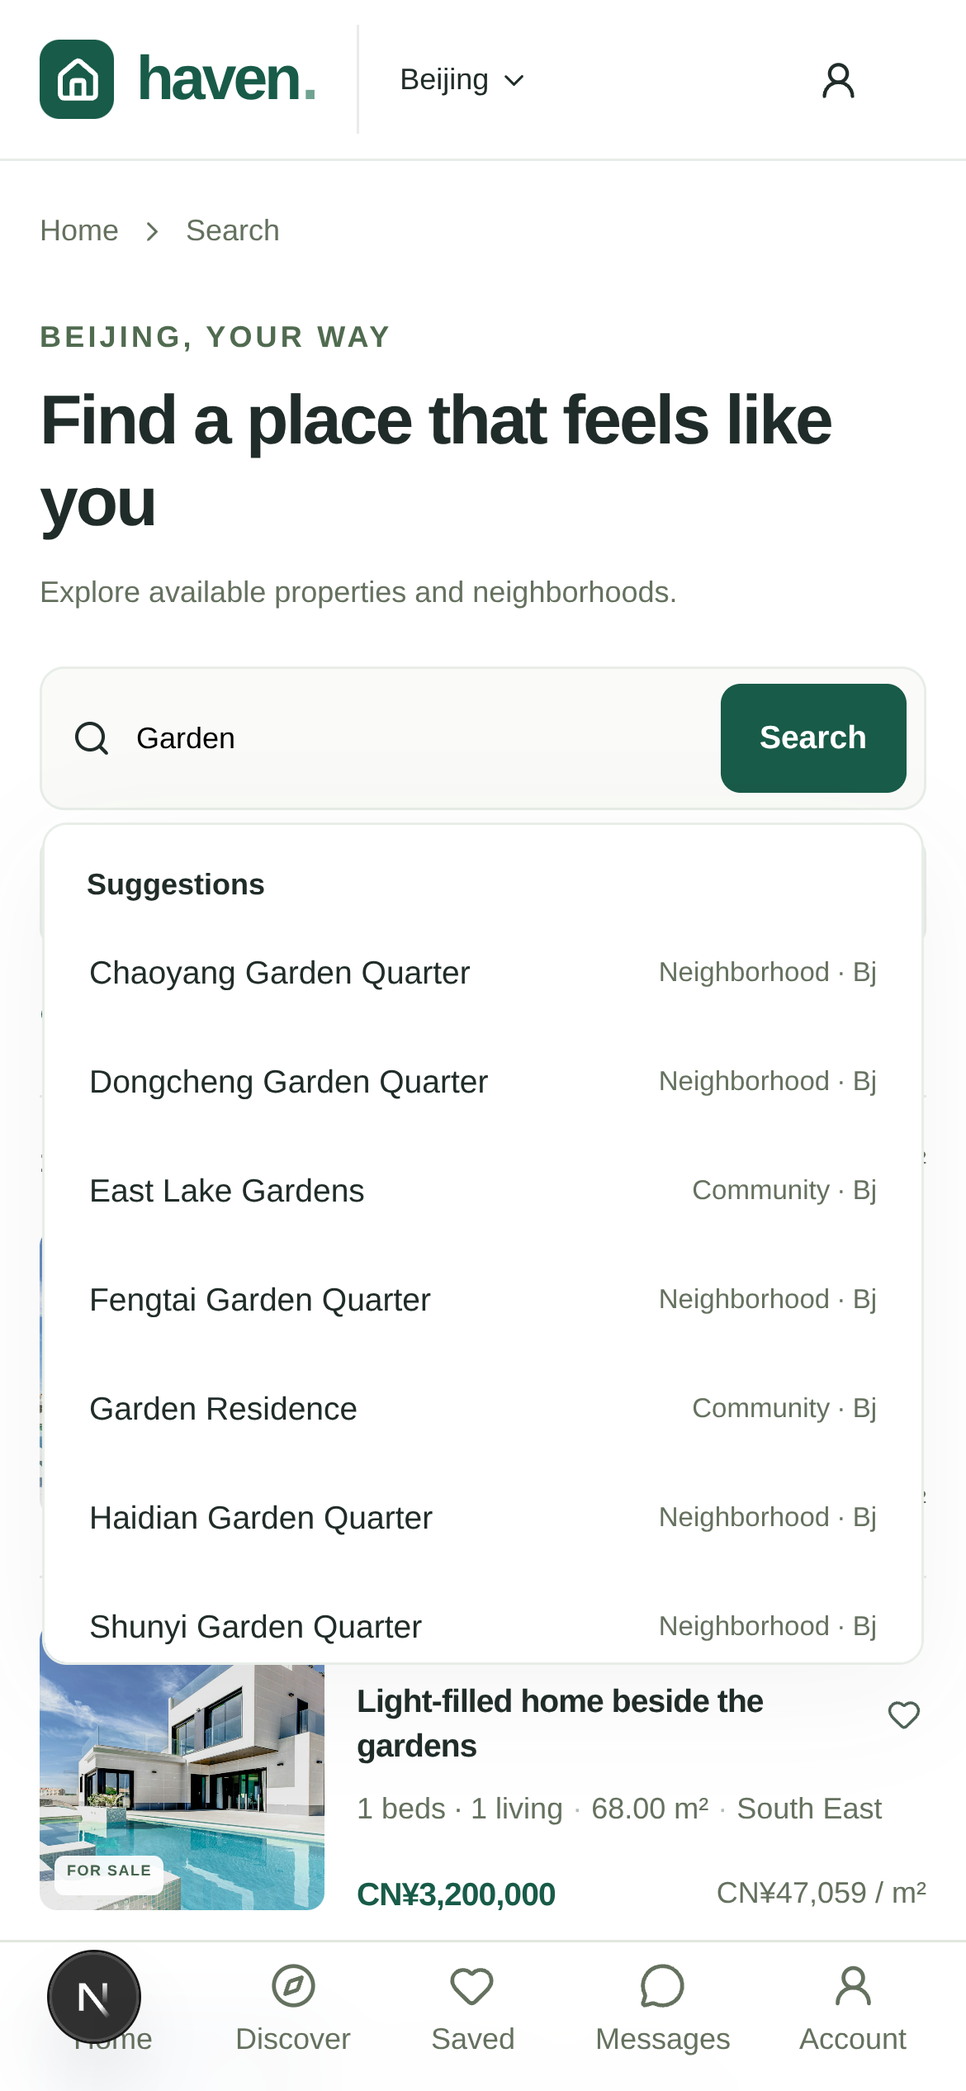
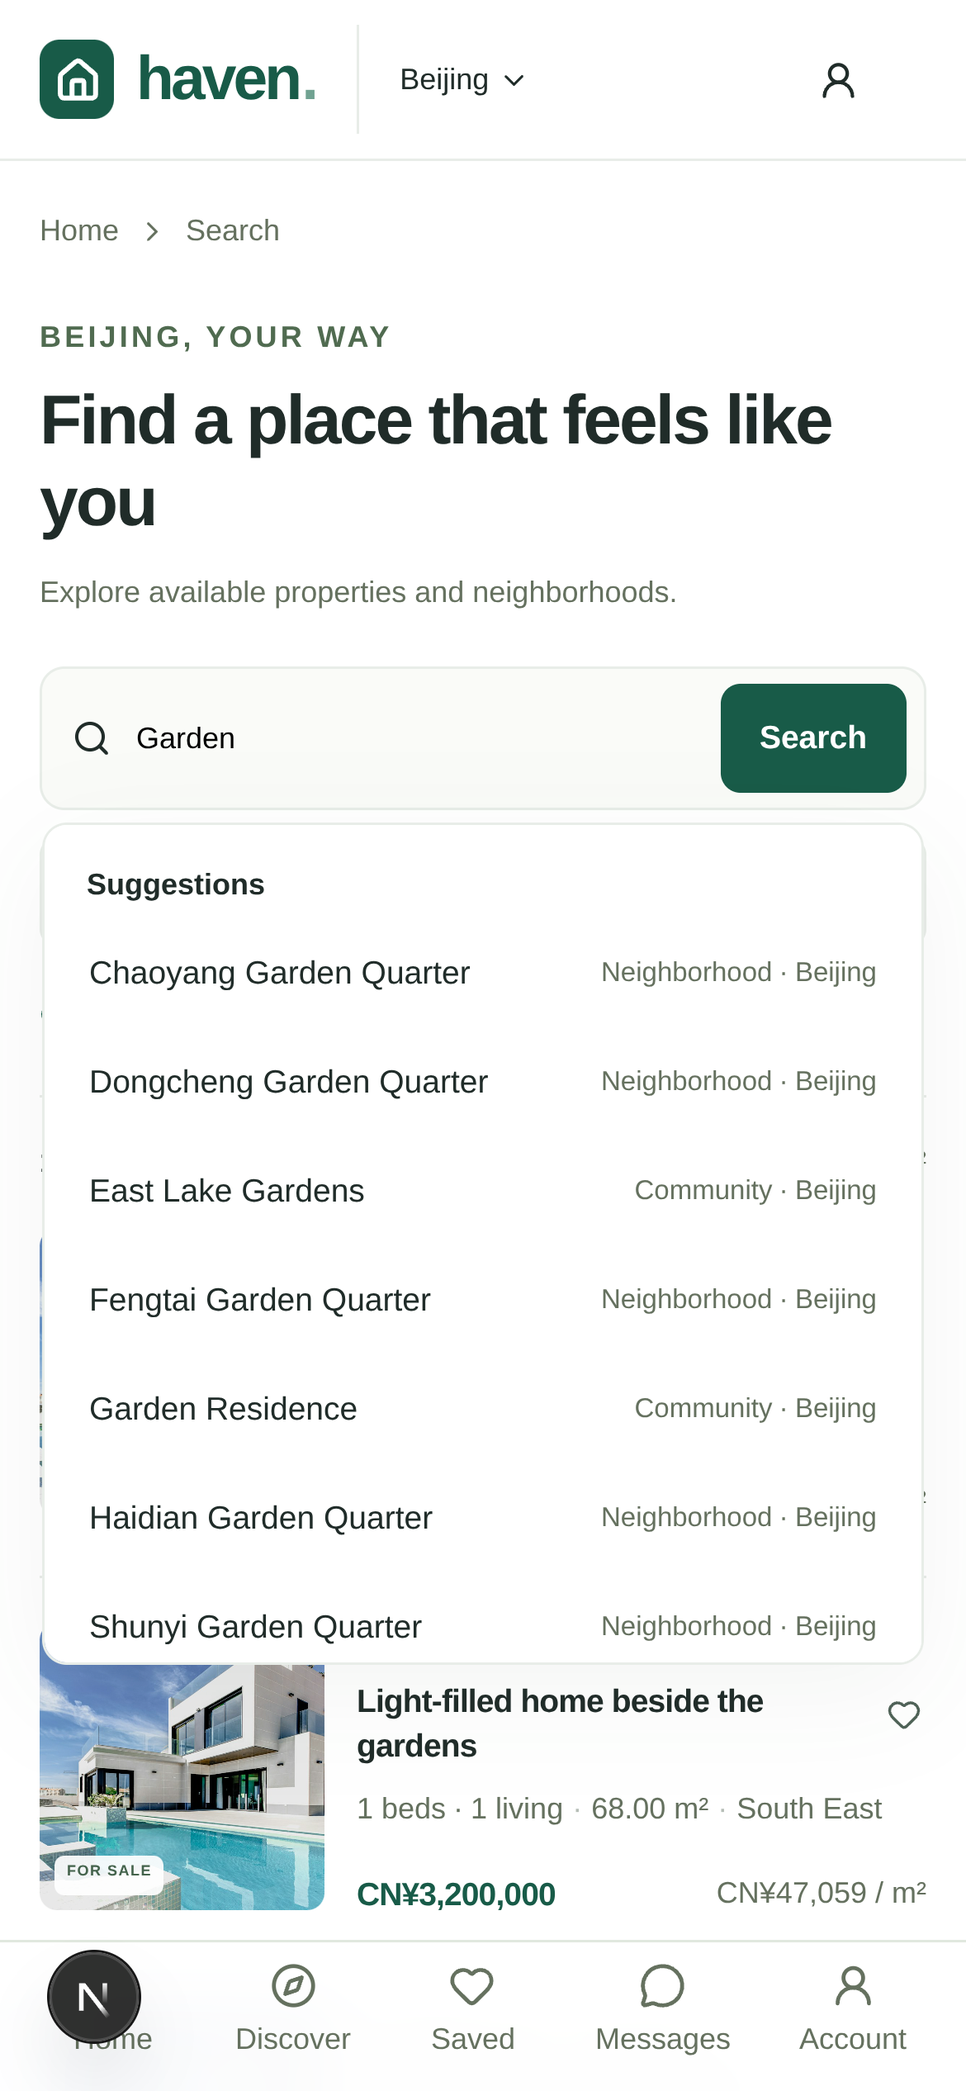
Show city names in autocomplete options and verify scoped labels

diff --git a/apps/web/src/consumer.tsx b/apps/web/src/consumer.tsx
@@ -34,8 +34,8 @@ function ConsumerScreen({section,detail,initial,initialError}:Props){const city=
  const home=section==='home';
  return <><a className="skip-link" href="#main">Skip to content</a><header className="site-header"><div className="header-inner"><Brand href={'/'+city.slug}/><button className="city-control" onClick={()=>setModal('city')}><MapPin size={16}/>{city.name}<ChevronDown size={13}/></button><nav className="desktop-nav" aria-label="Main navigation"><a className={['home','buy'].includes(section)?'active':''} href={'/'+city.slug+'/buy'}>Buy</a><a className={section==='rent'?'active':''} href={'/'+city.slug+'/rent'}>Rent</a><a className={section==='new-homes'?'active':''} href={'/'+city.slug+'/new-homes'}>New homes</a><a href={'/'+city.slug+'/agents'}>Find an agent</a></nav><div className="header-actions"><a className="list-link" href={'/'+city.slug+'/list-property'}>List your property <ArrowUpRight size={15}/></a><button className="account-button" aria-label={signedIn?'My account':'Sign in'} onClick={()=>signedIn?window.location.assign('/account'):signIn()}><UserRound size={17}/><span>{signedIn?'My account':'Sign in'}</span></button><button className="mobile-menu icon-button" aria-label="Open menu" onClick={()=>setModal('menu')}><Menu size={21}/></button></div></div></header>
  <main id="main" className={home?'':'shell page-shell'}>
- {home?<><section className="hero shell"><div className="hero-image"><img src="/homes/home-1.jpg" alt="A spacious home opening onto a garden" fetchPriority="high"/><div className="hero-shade"/></div><div className="hero-content"><span className="hero-eyebrow"><span/> YOUR NEXT CHAPTER STARTS HERE</span><h1>Find a place<br/>to call <em>yours.</em></h1><p>A home is more than an address.<br className="desktop-only"/> Let’s find where you belong.</p><SearchAutocomplete key={city.slug+':'+(me.data?.data.id||'guest')} city={city.slug} accountId={me.data?.data.id} initialText={searchParams.get('text')||''} hero/><div className="hero-foot"><ShieldCheck size={15}/><span>Clear details. Local guidance. A place for you.</span></div></div><div className="hero-caption"><MapPin size={14}/>Discover your {city.name}</div></section><section className="categories shell" aria-label="Explore property categories">{categories.map(({label,path,icon:Icon,color})=><a href={'/'+city.slug+'/'+path} key={path}><span className={'category-icon '+color}><Icon size={25} strokeWidth={1.7}/></span><span>{label}</span></a>)}</section><section className="home-section shell"><div className="section-heading"><div><span className="eyebrow">A PLACE TO START</span><h2>Homes worth a closer look<span className="accent-dot">.</span></h2><p>Find a little more space for the life you want.</p></div><a className="text-link" href={'/'+city.slug+'/buy'}>Explore all homes <ArrowUpRight size={17}/></a></div><div className="feed-tabs"><a className="selected" href={'/'+city.slug}>Recommended</a><a href={'/'+city.slug+'/buy?sort=newest'}>Just listed</a><a href={'/'+city.slug+'/buy?sort=price_asc'}>Explore by price</a><span className="feed-note">Available homes in {city.name}</span></div>{result.isPending?<Spinner/>:result.isError||(!result.data&&initialError)?<ErrorBox message={result.error?.message||initialError!} retry={()=>result.refetch()}/>:<div className="listing-grid">{records.map(card)}</div>}</section><section className="owner-banner shell"><div className="owner-banner-icon"><House size={44} strokeWidth={1.2}/></div><div><span className="eyebrow">YOUR NEXT MOVE</span><h2>Great homes deserve to be found.</h2><p>Selling or letting? Start with a local property team.</p></div><a href={'/'+city.slug+'/list-property'} className="button">List your property <ArrowUpRight size={17}/></a></section><HomeDevelopments/><section className="guide-banner shell"><div><span className="eyebrow">A LITTLE LOCAL KNOWLEDGE</span><h2>Find the neighborhood<br/>that feels like home.</h2><p>Get to know the communities behind the addresses.</p><a className="text-link" href={'/'+city.slug+'/communities'}>Explore {city.name} communities <ArrowUpRight size={17}/></a></div><Photo src="/homes/home-4.jpg" alt="A home with green surroundings"/></section></>:
- section==='tools'?<Mortgage/>:section==='list-property'?<OwnerForm signedIn={signedIn} signIn={signIn} onSuccess={()=>setNotice('Your property request has been saved')}/>:section==='support'?<Support signedIn={signedIn} signIn={signIn}/>:section==='account'?<Account detail={detail} me={me} favorites={favorites} card={card} signIn={signIn}/>:section==='tenant'?<Tenant section={detail||'leases'} me={me} signIn={signIn}/>:detail&&records&&!Array.isArray(records)?<Detail section={section} record={records} authLoading={me.isPending||(!!me.data&&favorites.isPending)} saved={favorites.data?.data.some(x=>x.id===records.id)??false} signedIn={signedIn} signIn={signIn} save={save} onSuccess={setNotice}/>:<><div className="breadcrumb"><a href={'/'+city.slug}>Home</a><ChevronRight size={13}/><span>{categories.find(c=>c.path===section)?.label||'Search'}</span></div><div className="page-heading"><div><span className="eyebrow">{city.name.toUpperCase()}, YOUR WAY</span><h1>{titles[section]||'Explore '+city.name}</h1><p>{subtitles[section]?.replaceAll('Beijing',city.name)||'Explore available properties and neighborhoods.'}</p></div><span className="heading-decoration"><House size={48} strokeWidth={1}/></span></div><SearchAutocomplete key={city.slug+':'+(me.data?.data.id||'guest')} city={city.slug} accountId={me.data?.data.id} initialText={searchParams.get('text')||''} communities={section==='communities'}/>{['buy','rent','commercial','search'].includes(section)&&<FilterBar section={section} onSaveSearch={()=>signedIn?setModal('saveSearch'):signIn()}/>}{section==='communities'&&<CommunityFilters/>}<div className="results-heading"><span><strong>{result.data?.meta?.total??records.length??0}</strong> {section==='agents'?'local agents':section==='communities'?'communities':'results'} in {city.name}</span><span className="muted">{['buy','rent','commercial','search'].includes(section)?'Prices in CNY · Area in m²':'Local discovery'}</span></div>{result.isPending?<Spinner/>:result.isError||(!result.data&&initialError)?<ErrorBox message={result.error?.message||initialError!} retry={()=>result.refetch()}/>:!records.length?<Empty title="No matches just yet" description="Try a different neighborhood or adjust your filters."><a className="button secondary" href={'/'+city.slug+'/'+section}>Clear filters</a></Empty>:['buy','rent','commercial','search'].includes(section)?<><div className="listing-grid">{records.map(card)}</div>{result.data?.meta&&Number(result.data.meta.total)>20&&<Pagination total={Number(result.data.meta.total)}/>}</>:<><div className="listing-grid">{records.map((r:any)=><DirectoryCard key={r.id} record={r} section={section}/>)}</div>{section==='communities'&&Number(result.data?.meta?.total)>Number(result.data?.meta?.limit)&&<Pagination total={Number(result.data?.meta?.total)} limit={Number(result.data?.meta?.limit)}/>}</>}</>}
+ {home?<><section className="hero shell"><div className="hero-image"><img src="/homes/home-1.jpg" alt="A spacious home opening onto a garden" fetchPriority="high"/><div className="hero-shade"/></div><div className="hero-content"><span className="hero-eyebrow"><span/> YOUR NEXT CHAPTER STARTS HERE</span><h1>Find a place<br/>to call <em>yours.</em></h1><p>A home is more than an address.<br className="desktop-only"/> Let’s find where you belong.</p><SearchAutocomplete key={city.slug+':'+(me.data?.data.id||'guest')} city={city.slug} cityName={city.name} accountId={me.data?.data.id} initialText={searchParams.get('text')||''} hero/><div className="hero-foot"><ShieldCheck size={15}/><span>Clear details. Local guidance. A place for you.</span></div></div><div className="hero-caption"><MapPin size={14}/>Discover your {city.name}</div></section><section className="categories shell" aria-label="Explore property categories">{categories.map(({label,path,icon:Icon,color})=><a href={'/'+city.slug+'/'+path} key={path}><span className={'category-icon '+color}><Icon size={25} strokeWidth={1.7}/></span><span>{label}</span></a>)}</section><section className="home-section shell"><div className="section-heading"><div><span className="eyebrow">A PLACE TO START</span><h2>Homes worth a closer look<span className="accent-dot">.</span></h2><p>Find a little more space for the life you want.</p></div><a className="text-link" href={'/'+city.slug+'/buy'}>Explore all homes <ArrowUpRight size={17}/></a></div><div className="feed-tabs"><a className="selected" href={'/'+city.slug}>Recommended</a><a href={'/'+city.slug+'/buy?sort=newest'}>Just listed</a><a href={'/'+city.slug+'/buy?sort=price_asc'}>Explore by price</a><span className="feed-note">Available homes in {city.name}</span></div>{result.isPending?<Spinner/>:result.isError||(!result.data&&initialError)?<ErrorBox message={result.error?.message||initialError!} retry={()=>result.refetch()}/>:<div className="listing-grid">{records.map(card)}</div>}</section><section className="owner-banner shell"><div className="owner-banner-icon"><House size={44} strokeWidth={1.2}/></div><div><span className="eyebrow">YOUR NEXT MOVE</span><h2>Great homes deserve to be found.</h2><p>Selling or letting? Start with a local property team.</p></div><a href={'/'+city.slug+'/list-property'} className="button">List your property <ArrowUpRight size={17}/></a></section><HomeDevelopments/><section className="guide-banner shell"><div><span className="eyebrow">A LITTLE LOCAL KNOWLEDGE</span><h2>Find the neighborhood<br/>that feels like home.</h2><p>Get to know the communities behind the addresses.</p><a className="text-link" href={'/'+city.slug+'/communities'}>Explore {city.name} communities <ArrowUpRight size={17}/></a></div><Photo src="/homes/home-4.jpg" alt="A home with green surroundings"/></section></>:
+ section==='tools'?<Mortgage/>:section==='list-property'?<OwnerForm signedIn={signedIn} signIn={signIn} onSuccess={()=>setNotice('Your property request has been saved')}/>:section==='support'?<Support signedIn={signedIn} signIn={signIn}/>:section==='account'?<Account detail={detail} me={me} favorites={favorites} card={card} signIn={signIn}/>:section==='tenant'?<Tenant section={detail||'leases'} me={me} signIn={signIn}/>:detail&&records&&!Array.isArray(records)?<Detail section={section} record={records} authLoading={me.isPending||(!!me.data&&favorites.isPending)} saved={favorites.data?.data.some(x=>x.id===records.id)??false} signedIn={signedIn} signIn={signIn} save={save} onSuccess={setNotice}/>:<><div className="breadcrumb"><a href={'/'+city.slug}>Home</a><ChevronRight size={13}/><span>{categories.find(c=>c.path===section)?.label||'Search'}</span></div><div className="page-heading"><div><span className="eyebrow">{city.name.toUpperCase()}, YOUR WAY</span><h1>{titles[section]||'Explore '+city.name}</h1><p>{subtitles[section]?.replaceAll('Beijing',city.name)||'Explore available properties and neighborhoods.'}</p></div><span className="heading-decoration"><House size={48} strokeWidth={1}/></span></div><SearchAutocomplete key={city.slug+':'+(me.data?.data.id||'guest')} city={city.slug} cityName={city.name} accountId={me.data?.data.id} initialText={searchParams.get('text')||''} communities={section==='communities'}/>{['buy','rent','commercial','search'].includes(section)&&<FilterBar section={section} onSaveSearch={()=>signedIn?setModal('saveSearch'):signIn()}/>}{section==='communities'&&<CommunityFilters/>}<div className="results-heading"><span><strong>{result.data?.meta?.total??records.length??0}</strong> {section==='agents'?'local agents':section==='communities'?'communities':'results'} in {city.name}</span><span className="muted">{['buy','rent','commercial','search'].includes(section)?'Prices in CNY · Area in m²':'Local discovery'}</span></div>{result.isPending?<Spinner/>:result.isError||(!result.data&&initialError)?<ErrorBox message={result.error?.message||initialError!} retry={()=>result.refetch()}/>:!records.length?<Empty title="No matches just yet" description="Try a different neighborhood or adjust your filters."><a className="button secondary" href={'/'+city.slug+'/'+section}>Clear filters</a></Empty>:['buy','rent','commercial','search'].includes(section)?<><div className="listing-grid">{records.map(card)}</div>{result.data?.meta&&Number(result.data.meta.total)>20&&<Pagination total={Number(result.data.meta.total)}/>}</>:<><div className="listing-grid">{records.map((r:any)=><DirectoryCard key={r.id} record={r} section={section}/>)}</div>{section==='communities'&&Number(result.data?.meta?.total)>Number(result.data?.meta?.limit)&&<Pagination total={Number(result.data?.meta?.total)} limit={Number(result.data?.meta?.limit)}/>}</>}</>}
  </main><footer className="site-footer shell"><div><Brand href={'/'+city.slug}/><p>A place for your next chapter.</p></div><nav aria-label="Footer"><a href={'/'+city.slug+'/support'}>Help & support</a><a href={'/'+city.slug+'/list-property'}>For property owners</a><a href={process.env.NEXT_PUBLIC_OPS_URL||'http://localhost:8089/ops'}>Professional workspace <ArrowUpRight size={13}/></a></nav><div className="footer-bottom"><span>© 2026 Haven. English real estate marketplace.</span><span>Synthetic demo inventory · Illustrative photography</span></div></footer><nav className="bottom-nav" aria-label="Mobile navigation"><a className={home?'active':''} href={'/'+city.slug}><House size={21}/>Home</a><a href={'/'+city.slug+'/buy'}><Compass size={21}/>Discover</a><a href="/account/favorites"><Heart size={21}/>Saved</a><a href="/account/messages"><MessageCircle size={21}/>Messages</a><a href="/account"><UserRound size={21}/>Account</a></nav>
  {notice&&<div className="toast" role="status"><CheckCircle2 size={18}/>{notice}<button onClick={()=>setNotice('')} aria-label="Dismiss notification">×</button></div>}
  {modal==='city'&&<Dialog title="Choose your city" onClose={close}><CitySelector section={section} current={city}/></Dialog>}

diff --git a/apps/web/src/search-autocomplete.tsx b/apps/web/src/search-autocomplete.tsx
@@ -3,8 +3,8 @@ import {useEffect,useId,useRef,useState} from 'react';
 import {Search,ArrowRight} from 'lucide-react';
 import {sdk} from '@haven/contracts';
 type Suggestion={id:string;name:string;slug:string;kind:'community'|'district'|'neighborhood';city:string};
-type Props={city:string;accountId?:string;hero?:boolean;initialText?:string;communities?:boolean};
-export function SearchAutocomplete({city,accountId,hero=false,initialText='',communities=false}:Props){
+type Props={city:string;cityName:string;accountId?:string;hero?:boolean;initialText?:string;communities?:boolean};
+export function SearchAutocomplete({city,cityName,accountId,hero=false,initialText='',communities=false}:Props){
  const [text,setText]=useState(initialText),[focused,setFocused]=useState(false),[suggestions,setSuggestions]=useState<Suggestion[]>([]),[history,setHistory]=useState<string[]>([]),[selected,setSelected]=useState(-1),[notice,setNotice]=useState(''),[loading,setLoading]=useState(false);
  const listId=useId(),sequence=useRef(0),key='haven.recent-searches.'+city;
  useEffect(()=>{
@@ -33,6 +33,6 @@ export function SearchAutocomplete({city,accountId,hero=false,initialText='',com
  return <form className={(hero?'hero-search':'list-search')+' search-autocomplete'} onSubmit={e=>{e.preventDefault();const choice=choices[selected];void submit(choice?.label||text,choice?.suggestion);}} onBlur={e=>{if(!e.currentTarget.contains(e.relatedTarget)){setFocused(false);setSelected(-1);}}}>
   <Search size={hero?21:20}/><input role="combobox" aria-label={hero?'Search homes, neighborhoods or communities':'Search properties'} aria-expanded={focused} aria-controls={listId} aria-autocomplete="list" aria-activedescendant={selected>=0?listId+'-'+selected:undefined} autoComplete="off" maxLength={120} placeholder={hero?'Search homes, neighborhoods, communities':'Search a neighborhood, community or home'} value={text} onFocus={()=>setFocused(true)} onChange={e=>{sequence.current++;setText(e.target.value);setSuggestions([]);setSelected(-1);setLoading(false);setNotice('');}} onKeyDown={e=>{if(e.key==='Escape'){setFocused(false);setSelected(-1);}else if(e.key==='ArrowDown'){e.preventDefault();setFocused(true);setSelected(Math.min(selected+1,choices.length-1));}else if(e.key==='ArrowUp'){e.preventDefault();setSelected(Math.max(-1,selected-1));}}}/>
   <button className={hero?undefined:'button small'} type="submit">Search {hero&&<ArrowRight size={17}/>}</button>
-  {focused&&<div className="search-suggestions"><div className="search-suggestions-heading"><strong>{text.trim()?'Suggestions':'Recent searches'}</strong>{!text.trim()&&history.length>0&&<button type="button" onClick={()=>void clear()}>Clear history</button>}</div><div id={listId} role="listbox" aria-label={text.trim()?'Search suggestions':'Recent searches'}>{choices.map((choice,index)=><button id={listId+'-'+index} type="button" role="option" aria-selected={selected===index} key={choice.suggestion?.id||choice.label} onClick={()=>void submit(choice.label,choice.suggestion)}><span>{choice.label}</span>{choice.suggestion&&<small>{choice.suggestion.kind} · {city}</small>}</button>)}</div>{loading&&<p role="status">Searching…</p>}{!loading&&choices.length===0&&<p>{text.trim()?'Type a location or search all property titles.':'Your searches will appear here.'}</p>}{notice&&<p role="status">{notice}</p>}</div>}
+  {focused&&<div className="search-suggestions"><div className="search-suggestions-heading"><strong>{text.trim()?'Suggestions':'Recent searches'}</strong>{!text.trim()&&history.length>0&&<button type="button" onClick={()=>void clear()}>Clear history</button>}</div><div id={listId} role="listbox" aria-label={text.trim()?'Search suggestions':'Recent searches'}>{choices.map((choice,index)=><button id={listId+'-'+index} type="button" role="option" aria-selected={selected===index} data-city={choice.suggestion?.city} key={choice.suggestion?.id||choice.label} onClick={()=>void submit(choice.label,choice.suggestion)}><span>{choice.label}</span>{choice.suggestion&&<small>{choice.suggestion.kind} · {cityName}</small>}</button>)}</div>{loading&&<p role="status">Searching…</p>}{!loading&&choices.length===0&&<p>{text.trim()?'Type a location or search all property titles.':'Your searches will appear here.'}</p>}{notice&&<p role="status">{notice}</p>}</div>}
  </form>;
 }

diff --git a/tests/e2e/search-autocomplete.spec.ts b/tests/e2e/search-autocomplete.spec.ts
@@ -4,11 +4,11 @@ test('D03 city suggestions ignore reversed responses and support keyboard select
  await page.goto('/bj/search');const input=page.getByRole('combobox',{name:'Search properties'});
  let release!:()=>void;const held=new Promise<void>(resolve=>{release=resolve;});let entered!:()=>void;const started=new Promise<void>(resolve=>{entered=resolve;});
  await page.route('**/api/v1/search/suggest?*',async route=>{const q=new URL(route.request().url()).searchParams.get('q');if(q==='old'){entered();await held;await route.fulfill({json:{data:[{id:'10000000-0000-4000-8000-000000000001',name:'Obsolete response',slug:'obsolete',kind:'community',city:'bj'}]}}).catch(()=>{});}else await route.continue();});
- await input.fill('old');await started;await input.fill('Garden');await expect(page.getByRole('listbox').getByRole('option').first()).toBeVisible();release();await expect(page.getByRole('listbox').getByRole('option',{name:/Obsolete response/})).toHaveCount(0);await expect(page.getByRole('listbox').getByRole('option').first()).toContainText('bj');
+ await input.fill('old');await started;await input.fill('Garden');await expect(page.getByRole('listbox').getByRole('option').first()).toBeVisible();release();await expect(page.getByRole('listbox').getByRole('option',{name:/Obsolete response/})).toHaveCount(0);await expect(page.getByRole('listbox').getByRole('option').first()).toHaveAttribute('data-city','bj');
  await page.screenshot({path:`evidence/d03-suggestions-${info.project.name}.png`,fullPage:false});
  const suggestion=(await (await page.request.get('/api/v1/search/suggest?city=bj&q=Garden')).json()).data[0];await input.press('ArrowDown');await input.press('Enter');await expect(page).toHaveURL(new RegExp((suggestion.kind==='community'?'communityId':suggestion.kind==='district'?'districtId':'neighborhoodId')+'='+suggestion.id));
  await page.goto('/bj/search');await page.getByRole('combobox',{name:'Search properties'}).focus();await expect(page.getByRole('listbox').getByRole('option',{name:suggestion.name,exact:true})).toBeVisible();await page.reload();await page.getByRole('combobox',{name:'Search properties'}).focus();await expect(page.getByRole('listbox').getByRole('option',{name:suggestion.name,exact:true})).toBeVisible();await page.getByRole('button',{name:'Clear history'}).click();await expect(page.getByRole('listbox').getByRole('option')).toHaveCount(0);await expect(page.getByRole('status')).toContainText('Recent searches cleared');
- await page.goto('/sh/search');await page.getByRole('combobox',{name:'Search properties'}).fill('Pud');await expect.poll(async()=>{const data=(await (await page.request.get('/api/v1/search/suggest?city=sh&q=Pud')).json()).data;return data.length;}).toBeGreaterThan(0);await expect(page.getByRole('listbox').getByRole('option').first()).toContainText('sh');
+ await page.goto('/sh/search');await page.getByRole('combobox',{name:'Search properties'}).fill('Pud');await expect.poll(async()=>{const data=(await (await page.request.get('/api/v1/search/suggest?city=sh&q=Pud')).json()).data;return data.length;}).toBeGreaterThan(0);await expect(page.getByRole('listbox').getByRole('option').first()).toHaveAttribute('data-city','sh');
 });
 test('D03 authenticated recent searches deduplicate, cap at ten, persist across reload and clear only the selected city',async({page})=>{
  await login(page,'buyer');const endpoint='/api/v1/me/recent-searches',headers={Origin:'http://localhost:8088','idempotency-key':crypto.randomUUID()};await page.request.delete(endpoint+'?city=bj',{headers});
